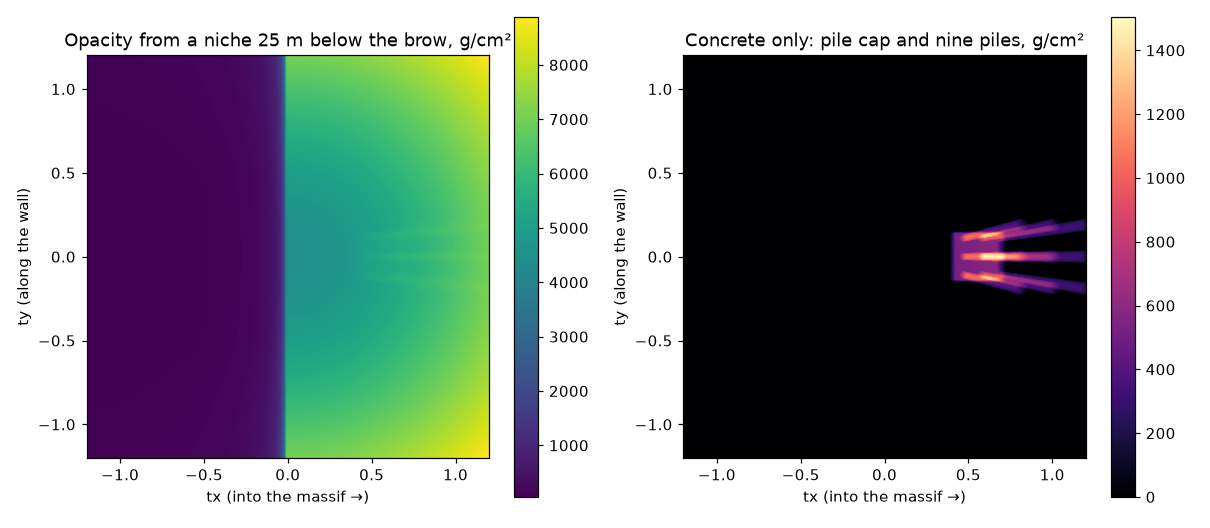
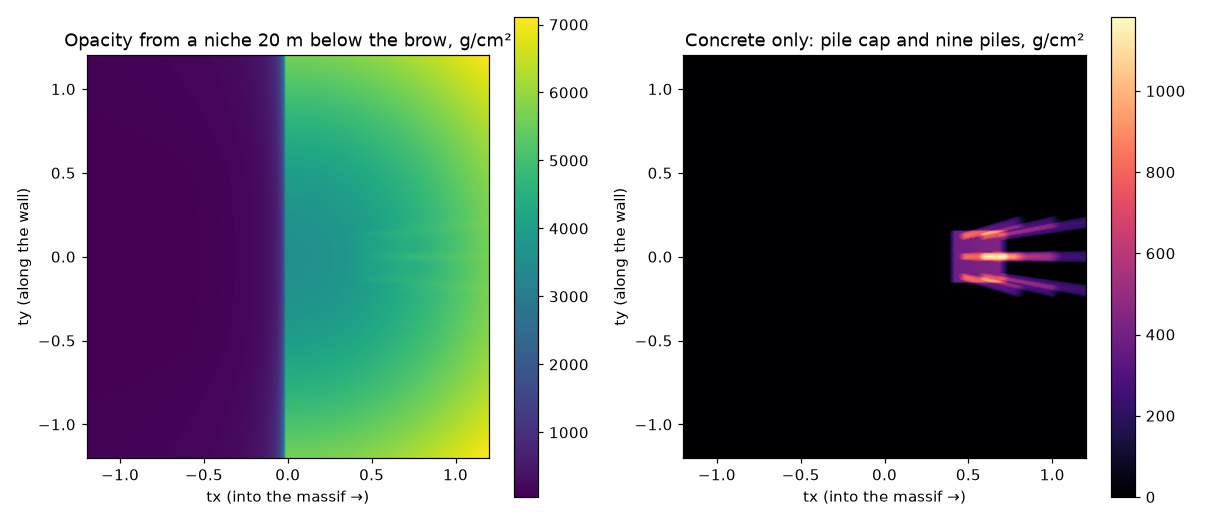
Spike: invented pier, seeds and threshold for the scattering experiment; note corrected

diff --git a/docs/notes/spike/mulder_spike.py b/docs/notes/spike/mulder_spike.py
@@ -3,13 +3,18 @@
 Compares Mulder 0.3.7 with the preliminary calculation used for the 2027 grant application
 (Guan et al. 2015 spectrum at sea level, energy loss a + bE, straight paths, cone significance).
 The scene is synthetic: a flat bank behind a vertical wall, a niche, a spherical void, a pier.
+The pier is invented (`PIER`): its sizes and position are those of no real structure.
 
 Run:
     pip install mulder calzone
     python docs/notes/spike/mulder_spike.py                 all experiments, about 6 minutes
     python docs/notes/spike/mulder_spike.py speed           only the speed test
-    python docs/notes/spike/mulder_spike.py --events 40000 scattering
     python docs/notes/spike/mulder_spike.py figure          needs matplotlib
+    python docs/notes/spike/mulder_spike.py --events 50000 --seed 12 scattering
+    python docs/notes/spike/mulder_spike.py --events 50000 --threshold 1 scattering
+
+The scattering numbers of docs/numbers.md are means over the seeds 11, 12 and 13 with 50 000
+states each (about 3 minutes a run for muons above 0.1 GeV at the detector).
 """
 
 import argparse
@@ -35,6 +40,13 @@ EPS = 1e-3  # m, the detector sits this much above the niche floor
 P1, P2, P3, P4, P5 = 0.102573, -0.068287, 0.958633, 0.0407253, 0.817285
 A_LEGACY, B_LEGACY, OFFSET_LEGACY = 2.2e-3, 4.0e-6, 0.1
 AREA, EXPOSURE, EFFICIENCY, NEIGHBOURS = 240.0, 60 * 86400.0, 0.9, 8
+
+# An invented pier for the speed test, the fast path and the figure: near face of the pile cap
+# 8 m from the wall, cap 6 m x 6 m x 1.5 m, 3 x 3 piles of 0.8 m diameter and 8 m length at a
+# pitch of 2.2 m; seen from a niche 20 m below the brow, with a 2 m void in front of it.
+PIER = (8.0, 6.0, 1.5, 0.4, 8.0, 3, 2.2)
+PIER_NICHE = 20.0
+PIER_VOID = (6.0, 0.0, -6.0, 1.0)
 
 
 def define_materials() -> None:
@@ -294,7 +306,7 @@ def exp_wall(args):
         ("flat brow, boxes", None, {}),
         ("rising brow, mesh", mesh, {"rise": rise, "x_rise": x_rise}),
     ):
-        for depth in (10.0, 25.0):
+        for depth in (10.0, PIER_NICHE):
             geometry = build_scene(depth, brow_mesh=brow)
             start = time.perf_counter()
             position = np.broadcast_to(detector(depth), u.shape)
@@ -385,6 +397,7 @@ def exp_scattering(args):
     print(
         "\n## E6 scattering: excess of counts inside a cone around the 1 m void, continuous against discrete"
     )
+    print(f"muons above {args.threshold:g} GeV at the detector, seed {args.seed}")
     centre, radius = np.array(VOID[:3]), VOID[3]
     d = detector(DEPTH)
     axis = (centre - d) / np.linalg.norm(centre - d)
@@ -397,8 +410,8 @@ def exp_scattering(args):
     e1 /= np.linalg.norm(e1)
     e2 = np.cross(axis, e1)
     for k in (1.0, 1.7):
-        rng = np.random.default_rng(11)
-        energy = np.exp(rng.uniform(np.log(1e-1), np.log(1e3), n))
+        rng = np.random.default_rng(args.seed)
+        energy = np.exp(rng.uniform(np.log(args.threshold), np.log(1e3), n))
         cb = rng.uniform(np.cos(k * angular), 1.0, n)
         sb, ph = np.sqrt(1 - cb**2), rng.uniform(0, 2 * np.pi, n)
         u = cb[:, None] * axis + (sb * np.cos(ph))[:, None] * e1 + (sb * np.sin(ph))[:, None] * e2
@@ -408,7 +421,7 @@ def exp_scattering(args):
             values = []
             for density in (SOIL, 1.2):
                 geometry.media[index].density = density
-                meter = mulder.Fluxmeter(geometry=geometry, mode=mode, seed=5)
+                meter = mulder.Fluxmeter(geometry=geometry, mode=mode, seed=args.seed - 6)
                 start = time.perf_counter()
                 extra = {"events": 1} if mode == "discrete" else {}
                 flux = np.asarray(meter.flux(position=position, direction=u, energy=energy, **extra))
@@ -473,14 +486,13 @@ def exp_speed(args):
         f"{platform.platform()}, Python {platform.python_version()},"
         f" mulder {mulder.config.VERSION}, calzone {calzone.VERSION}"
     )
-    pier = (10.0, 7.0, 2.0, 0.5, 10.0, 3, 2.5)
     start = time.perf_counter()
-    geometry = build_scene(25.0, sphere=(8.0, 0.0, -6.0, 1.0), pier=pier)
+    geometry = build_scene(PIER_NICHE, sphere=PIER_VOID, pier=PIER)
     print(
         f"scene with a pier: {len(geometry.media)} media,"
         f" built in {1e3 * (time.perf_counter() - start):.0f} ms"
     )
-    d = detector(25.0)
+    d = detector(PIER_NICHE)
     u = slope_grid(401, 1.2)
     position = np.broadcast_to(d, u.shape)
     geometry.scan(position=position[:100], direction=u[:100], output="grammage")  # warm-up
@@ -531,8 +543,8 @@ def exp_hybrid(args):
         "\n## E12 fast path (opacity from scan, flux from a table built by Mulder) against direct Mulder flux"
     )
     k = np.logspace(0.0, 4.0, 61)  # kinetic energy above 1 GeV, above the altitude cut-off
-    depth = 25.0
-    geometry = build_scene(depth, sphere=(8.0, 0.0, -6.0, 1.0), pier=(10.0, 7.0, 2.0, 0.5, 10.0, 3, 2.5))
+    depth = PIER_NICHE
+    geometry = build_scene(depth, sphere=PIER_VOID, pier=PIER)
     geometry.media[medium_index(geometry, "Anomaly")].density = 1.2
     d = detector(depth)
     altitude = ALTITUDE + d[2]
@@ -627,16 +639,16 @@ def exp_figure(args):
     matplotlib.use("Agg")
     import matplotlib.pyplot as plt
 
-    geometry = build_scene(25.0, sphere=(8.0, 0.0, -6.0, 1.0), pier=(10.0, 7.0, 2.0, 0.5, 10.0, 3, 2.5))
+    geometry = build_scene(PIER_NICHE, sphere=PIER_VOID, pier=PIER)
     n, t_max = 401, 1.2
     u = slope_grid(n, t_max)
     grammage = np.asarray(
-        geometry.scan(position=np.broadcast_to(detector(25.0), u.shape), direction=u, output="grammage")
+        geometry.scan(position=np.broadcast_to(detector(PIER_NICHE), u.shape), direction=u, output="grammage")
     )
     concrete = [i for i, m in enumerate(geometry.media) if m.material == "Concrete"]
     fig, axes = plt.subplots(1, 2, figsize=(11, 4.8), dpi=110)
     panels = (
-        ("Opacity from a niche 25 m below the brow, g/cm²", grammage.sum(axis=1), "viridis"),
+        (f"Opacity from a niche {PIER_NICHE:.0f} m below the brow, g/cm²", grammage.sum(axis=1), "viridis"),
         ("Concrete only: pile cap and nine piles, g/cm²", grammage[:, concrete].sum(axis=1), "magma"),
     )
     for ax, (title, values, cmap) in zip(axes, panels, strict=True):
@@ -691,6 +703,10 @@ def main() -> None:
     parser = argparse.ArgumentParser(description=__doc__.splitlines()[0])
     parser.add_argument("experiments", nargs="*", help="any of: " + ", ".join(EXPERIMENTS))
     parser.add_argument("--events", type=int, default=20000, help="Monte Carlo states for the discrete mode")
+    parser.add_argument("--seed", type=int, default=11, help="seed of the scattering experiment")
+    parser.add_argument(
+        "--threshold", type=float, default=0.1, help="lowest kinetic energy at the detector in it, GeV"
+    )
     args = parser.parse_args()
     unknown = set(args.experiments) - set(EXPERIMENTS)
     if unknown:

diff --git a/docs/notes/mulder.md b/docs/notes/mulder.md
@@ -2,7 +2,7 @@
 
 Roadmap task 0.1-02. Mulder 0.3.7 and Calzone 1.2.2 (V. Niess, LGPL-3.0-or-later), 12 November 2026. All numbers are reproduced by `docs/notes/spike/mulder_spike.py`; the scene is synthetic. "Preliminary calculation" is the one used for the 2027 grant application: Guan et al. (2015) spectrum at sea level, energy loss a + bE, straight paths, cone significance.
 
-Status: complete. Decision of 13 November 2026 at the end; corrections of 15 November above the practical notes. The numbers are frozen as regression tests in `tests/regression/data/mulder_reference.json` (`docs/legacy.md`).
+Status: complete. Decision of 13 November 2026 at the end; corrections of 15 and 16 November above the practical notes. The numbers that other documents quote are collected, with their conditions, in `docs/numbers.md`. The numbers are frozen as regression tests in `tests/regression/data/mulder_reference.json` (`docs/legacy.md`).
 
 ## Summary
 
@@ -10,26 +10,39 @@ Status: complete. Decision of 13 November 2026 at the end; corrections of 15 Nov
 |---|---|---|
 | E1 | Installation | `pip install mulder calzone`: wheels for Linux and macOS, x86-64 and arm64, Python ≥ 3.8 (abi3); 128 MB with numpy. Geometry needs no Geant4 data download. Physics tables compile in 3–10 s on first use and are cached in `~/.cache/mulder`. |
 | E2 | Reference flux | `Reference("GCCLY15")` is the Guan et al. (2015) formula with total energy E = K + m: differential flux agrees to 1e-6. Units m⁻² s⁻¹ sr⁻¹ GeV⁻¹, differential in kinetic energy at the detector; integral flux is obtained by integrating over energy. Vertical, sea level: 60.50 m⁻² s⁻¹ sr⁻¹ above 1 GeV, 88.42 in total. |
-| E2 | Altitude | The reference is defined at sea level; `Fluxmeter` transports through the atmosphere. At 1150 m the open-sky flux is +19.8 % above 1 GeV, +9.6 % above 5 GeV, +6.3 % above 10 GeV (total energy), +20.0 % over all energies from the cut-off. Under 20 m of soil it is +7.6 %, so the through-mass to open-sky ratio shifts by about 10 % against a sea-level model. Below the altitude cut-off the flux is not defined (E13). |
+| E2 | Altitude | The reference is defined at sea level; `Fluxmeter` transports through the atmosphere, energy loss and decay included. At 1150 m the open-sky flux is +19.8 % above 1 GeV, +9.6 % above 5 GeV, +6.3 % above 10 GeV (total energy), +20.0 % over all energies from the cut-off. Under 20 m of soil it is +7.6 %, so the through-mass to open-sky ratio shifts by about 10 % against a sea-level model. Below the altitude cut-off the flux is not defined (E13). |
 | E3 | Energy threshold | a + bE of the preliminary calculation is too high: against loam by 16 % at 500–1000 g/cm², 9 % at 3600, 6 % at 5400, 2.5 % at 10⁴ g/cm². Standard rock needs 1.4–2.5 % less energy than loam, concrete 0.3–0.7 % less (500–3·10⁴ g/cm²). |
 | E4 | Uniform slab | Integral flux under 10–30 m of soil is 3–12 % above the preliminary calculation at sea level and 9–25 % above it at 1150 m for zenith angles 0–60° (`spike/slab_ratio.png`). Discrete against continuous mode: −0.5 to −0.9 ± 0.2 %. |
 | E5 | Wall with a niche | Calzone geometry: ground box or closed OBJ mesh, niche by `subtract`. Path in the ground agrees with the preliminary calculation to 1e-12 m. With a rising brow 603 of 40 401 directions differ by up to 0.08 m: the preliminary calculation takes the brow as flat for directions towards the canyon and along the wall; Mulder is right. |
 | E6 | Hypotheses | A sphere placed as a daughter volume is a separate medium; its density is changed without rebuilding the geometry. |
-| E6 | Significance | 1 m void 3 m from the wall and 3 m below the brow, niche at 10 m, 240 cm², 60 days: preliminary 10.33σ (the application quotes 10.3σ); Mulder continuous at sea level 10.73σ; at 1150 m 12.02σ (12.05σ with 20 m instead of 300 m of scene air above the brow, `tests/regression`; see E12). |
-| E6 | Scattering | Discrete mode: the excess inside the geometric cone of the void (3.8°) is +4.87 ± 0.22 % against +6.39 % in continuous mode (−24 %); in a cone 1.7 times wider it is +2.02 ± 0.21 % against +2.21 %. Scattering moves a quarter of the signal out of the geometric cone; the significance at 1150 m drops from 12.0σ to about 9.2σ. |
-| E7 | Speed (Linux VM, 4 cores, arm64) | `scan` (opacity per medium): 5.6e5 directions/s with 14 media. Continuous flux: 4.6e4–1.7e5 states/s, i.e. 650–2400 directions/s with 71 energies. Discrete flux: 1.3e3–2.5e3 states/s. |
-| E7 | Speed (MacBook Air, macOS 27.3, arm64, Python 3.14) | `scan`: 6.5e4 directions/s (single run, first call included). Continuous flux: 2.7e4 states/s, i.e. 375 directions/s with 71 energies. Discrete flux: 2.4e4 states/s at 10 GeV. Opacity is fast enough on both machines; the energy-integrated flux is 30–40 times below the 1e4 directions/s needed for planning. |
+| E6 | Significance | 1 m void 3 m from the wall and 3 m below the brow, niche at 10 m, 240 cm², 60 days: preliminary 10.33σ (the application quotes 10.3σ); Mulder continuous at sea level 10.73σ; at 1150 m 12.02σ (12.05σ with 20 m instead of 300 m of scene air above the brow, `tests/regression`; see E12). All of these count every muon down to 1 MeV at the detector, as the preliminary calculation does; above 0.2 GeV at the detector the last number is 11.52σ, above 1 GeV it is 9.37σ. |
+| E6 | Scattering | Discrete mode, muons above 0.1 GeV at the detector, 50 000 states: the excess inside the geometric cone of the void (3.8°) is +4.87 ± 0.22 % against +6.39 % in continuous mode with seed 11, and +4.72 ± 0.13 % over the seeds 11, 12 and 13 — a share of 0.74 ± 0.02; in a cone 1.7 times wider the share is 0.93 ± 0.06. Scattering moves a quarter of the signal out of the geometric cone: 12.05σ at 1150 m becomes 8.9 ± 0.2σ. Above 1 GeV at the detector the share is 0.92 ± 0.02 and 9.37σ becomes 8.6 ± 0.2σ: a threshold removes the muons that scatter most (`mulder_spike.py --events 50000 --seed N [--threshold 1] scattering`). |
+| E7 | Speed (Linux VM, 4 cores, arm64) | `scan` (opacity per medium): 6.0e5 directions/s with 14 media. Continuous flux: 4.5e4–1.7e5 states/s, i.e. 640–2400 directions/s with 71 energies. Discrete flux: 1.2e3 states/s above 0.1 GeV at the detector, 3.6e3 above 1 GeV, 2.8e3 at 10 GeV. |
+| E7 | Speed (MacBook Air, macOS 27.3, arm64, Python 3.14) | `scan`: 6.5e4 directions/s (single run, first call included). Continuous flux: 2.7e4 states/s, i.e. 375 directions/s with 71 energies. Discrete flux: 2.4e4 states/s at 10 GeV. Measured on 12 November with the earlier pier scene, also of 14 media. Opacity is fast enough on both machines; the energy-integrated flux, 375–2400 directions/s, is 4 to 27 times below the 1e4 directions/s needed for planning. |
 | E8 | DEM terrain with a local geometry | `Fluxmeter` takes either layers or a local geometry, not both. Above a local geometry the atmosphere is still traversed: open sky at 45° seen from a niche 10 m below the brow is 50.59 against 50.61 m⁻² s⁻¹ sr⁻¹ for layers only (`mulder_spike.py local`). Calzone converts a DEM to a closed mesh, so the whole scene can be local. |
 | E9 | Season | Winter against summer mid-latitude atmosphere at 1150 m, all energies: open sky −0.36 %, under 20 m +0.41 %, their ratio +0.78 %; above 1 GeV open sky +0.78 %, under 20 m +0.38 %. The cut-off rises from 0.279 to 0.296 GeV. Only the air column between the site and sea level changes; the reference flux does not, so this is not a full temperature-effect model. |
 | E9 | Geomagnetic field | IGRF by date: east against west at 45° elevation +0.76 % in the open-sky integral flux over all energies, +0.27 % above 1 GeV. This is the bending of muons in the air between the site and the sea-level reference, not the east–west effect of the primaries. |
-| E10 | Camera | A camera inside the niche sees only the niche walls. The opacity map from `scan` is the view of the detector (`spike/pier_opacity.png`: pile cap and nine piles from a niche 25 m below the brow). |
+| E10 | Camera | A camera inside the niche sees only the niche walls. The opacity map from `scan` is the view of the detector (`spike/pier_opacity.png`: the pile cap and nine piles of an invented pier from a niche 20 m below the brow). |
 | E11 | Dependency | Mulder: 11 releases since March 2023, eight in December 2025 – June 2026, version 0.x, developed by V. Niess. Calzone: 15 releases since December 2024, last in September 2026. LGPL-3: usable as an imported dependency of BSD-3 code. |
-| E12 | Fast path | Opacity from `scan` with equivalent-opacity weights (concrete 0.995 relative to loam) and a table of the integral flux above 1 GeV built by Mulder under a dense slab at the detector altitude (36 elevations × 71 opacities, 2 s), against direct Mulder flux for 3000 random directions through the pier scene: rms 0.19 %, maximum 0.40 %; through concrete rms 0.04 %. Open sky is offset by +0.37 % because the air of the scene box has sea-level density. Fast path 8e6 directions/s, direct 2900 directions/s. |
-| E13 | Altitude cut-off | With the sea-level reference the flux at altitude is zero below K_cut, the energy lost in the air down to sea level: 0.28, 0.39, 0.53 GeV at 1150 m and 0.69, 0.97, 1.40 GeV at 3340 m for elevations of 90°, 45°, 30°. The differential flux has an integrable singularity at the cut-off: a coarse energy grid across it is wrong by up to a factor of two. Integrate from above the cut-off, or use a reference at the site altitude. |
+| E12 | Fast path | Opacity from `scan` with equivalent-opacity weights (concrete 0.995 relative to loam) and a table of the integral flux above 1 GeV built by Mulder under a dense slab at the detector altitude (36 elevations × 71 opacities, 2 s), against direct Mulder flux for 3000 random directions through the pier scene: rms 0.17 %, maximum 0.39 %; through concrete rms 0.04 %. Open sky is offset by +0.36 % because the air of the scene box has sea-level density. Fast path 8e6 directions/s, direct 2900 directions/s. Both sides are sums over a grid that starts at 1 GeV and gives its first node a whole step, which overestimates the integral above 1 GeV by 2–3 %, equally: the comparison holds, the absolute values of the table do not. |
+| E13 | Altitude cut-off | With the sea-level reference the flux at altitude is zero below K_cut, the energy lost in the air down to sea level: 0.28, 0.38, 0.53 GeV at 1150 m and 0.69, 0.97, 1.40 GeV at 3340 m for elevations of 90°, 45°, 30°. Under soil thinner than about 130 g/cm² the cut-off survives at the detector: 0.12 GeV under 0.5 m at 1150 m. The differential flux has an integrable singularity at the cut-off: a coarse energy grid across it is wrong by up to a factor of two. Integrate from above the cut-off, or use a reference at the site altitude. |
 
 ## Corrections (15 November 2026)
 
 Found while freezing these numbers as regression tests (roadmap 0.1-03, `tests/regression/mulder_cases.py`). Above sea level the differential flux of the sea-level reference has an integrable singularity at the altitude cut-off (E13). The spike integrated "all energies" on a grid in ln K across it, 100 nodes per decade, which is wrong by up to 1.3 %. The integrals now run in ln(K − K_cut). Changed: E2 total at sea level 88.38 → 88.42 (integral from K = 0 instead of 1 MeV); E8 49.97 / 50.08 → 50.59 / 50.61 (E8 is now in the script); E9 season −1.45 % / +1.9 % → −0.36 % / +0.78 %; E9 geomagnetic field +1.0 % → +0.76 %. Integrals above 1 GeV and everything under soil are unaffected. E3 and E4 ranges are restated for the full set of frozen cases.
+
+## Corrections (16 November 2026)
+
+Independent review of the spike, of the frozen numbers and of the documents.
+
+- Detector threshold. The significances of E6 count every muon down to 1 MeV at the detector and did not say so. The same example above 0.2 and 1 GeV is added and frozen (`reference_void/.../K>0.2GeV` and `K>1GeV`): 11.52σ and 9.37σ at 1150 m.
+- Scattering. The estimate is now a mean over three seeds. The earlier "12.0σ to about 9.2σ" came from one seed and carried no error: it becomes 8.9 ± 0.2σ without a threshold and 8.6 ± 0.2σ above 1 GeV.
+- Pier. The pier of E7, E10 and E12 is replaced by an invented one (`PIER` in the script). The figure and the numbers of E7 on Linux and of E12 are recomputed: rms 0.19 % → 0.17 %, maximum 0.40 % → 0.39 %.
+- Decay. Mulder applies muon decay along the air path between the site and sea level: the flux at 1150 m is the reference at the shifted energy times the ratio of stopping powers times exp(Δτ/τ), 1.21 at 1 GeV and 1.04 at 5 GeV. The altitude gains of E2 contain it.
+- Cut-off at 45° and 1150 m: 0.38 GeV (0.3848), not 0.39; under half a metre of soil a cut-off of 0.12 GeV survives at the detector (frozen as `thin_slab`).
+- E7: the energy-integrated flux is 4 to 27 times below the speed needed, not 30–40 times.
+- E12: the sums overestimate the integral above 1 GeV by 2–3 % on both sides of the comparison.
+- `spike/slab_ratio.png` is not touched by the integration error corrected on 15 November: under 2 m of soil and more the two integrators agree to 0.02 %.
 
 ## Practical notes
 
@@ -47,8 +60,8 @@ Found while freezing these numbers as regression tests (roadmap 0.1-03, `tests/r
 |---|---|
 | a + bE threshold | flux under soil underestimated by 3–12 %; significance +4 % when corrected |
 | sea-level spectrum | at 1150 m significance +12 % more; the reference-to-through ratio shifts by about 10 % |
-| no scattering | signal inside the geometric cone overestimated by 24 % |
-| net | 10.3σ becomes about 9.2σ |
+| no scattering | a quarter of the signal leaves the geometric cone (share 0.74 ± 0.02 without a detector threshold) |
+| net | 10.3σ becomes 8.4–8.9σ for detector thresholds between none and 1 GeV (`docs/numbers.md`) |
 
 ## Run on another machine
 
@@ -81,7 +94,7 @@ How the cost is contained: backend imports are confined to `geometry`, `material
 Consequences:
 
 - The energy variable is the kinetic energy at the detector, and every detector has an energy response.
-- With the sea-level reference, comparisons use muons above the altitude cut-off. The soft part, which matters for the open-sky reference and for the track-density budget, needs a reference flux at the site altitude (tabulated from MCEq or measured); planned for 0.3.
+- With the sea-level reference, comparisons use muons above the altitude cut-off. The soft part, which matters for the open-sky reference and for the track-density budget, needs a reference flux at the site altitude (tabulated from a model or measured); moved from 0.3 to 0.1 on 15 November (roadmap 0.1-05b, after the release of 0.1.0).
 - Version 0.1 uses continuous transport; scattering is quantified with the discrete mode and applied in 0.3.
 - The whole scene is a local geometry; terrain from a DEM enters as a Calzone mesh.
 - The air of the scene box takes the density of the atmosphere at the site altitude.
